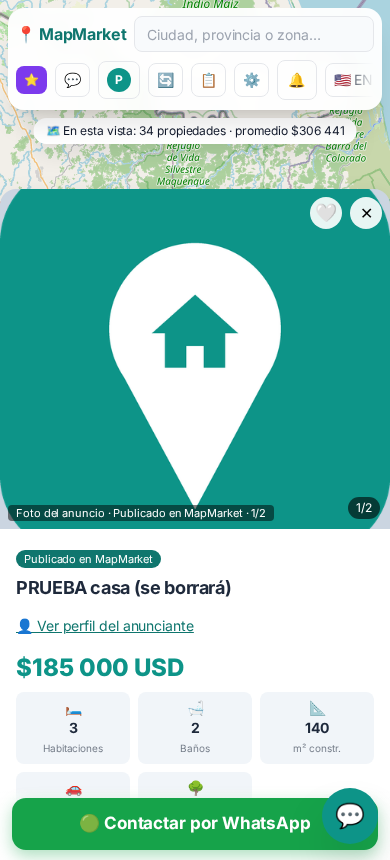
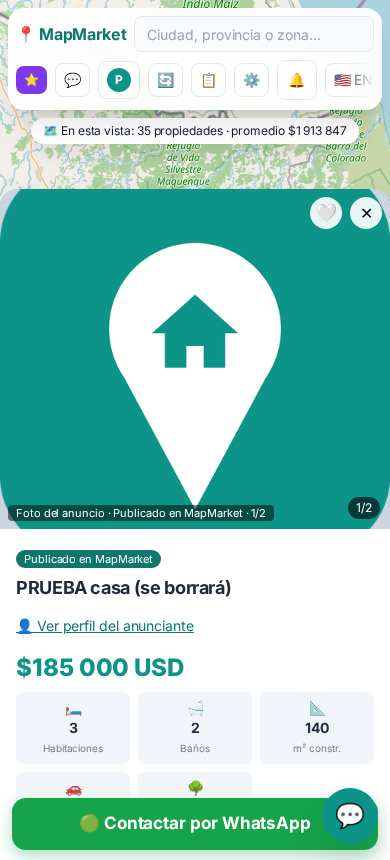
Vista: precio mediano (robusto a valores atípicos); validación de precio absurdo al publicar

Changed region(s): [[0.1846, 0.1209, 0.8308, 0.1814], [0.8923, 0.1209, 0.9231, 0.1814], [0.1231, 0.1209, 0.1538, 0.1814]]

diff --git a/js/mejoras.js b/js/mejoras.js
@@ -67,7 +67,7 @@
       const prev = save.onclick;
       save.onclick = async e => {
         const v = id => ($(id) ? $(id).value.trim() : ''), tipo = v('nY'), lote = /Lote|Finca/i.test(tipo), err = [];
-        if (!v('nT')) err.push(T('Título')); if (!(+v('nP') > 0)) err.push(T('Precio'));
+        if (!v('nT')) err.push(T('Título')); if (!(+v('nP') > 0)) err.push(T('Precio')); else if ((v('nC') === 'CRC' ? +v('nP') / 500 : +v('nP')) > 20e6) err.push(T('Precio (parece incorrecto: revisa la moneda y los ceros)'));
         if (!lote && !(+v('nB') >= 0 && v('nB') !== '')) err.push(T('Habitaciones')); if (!lote && v('nBa') === '') err.push(T('Baños'));
         if (!(+v('nA') > 0)) err.push(T('Área m²')); if (!v('nL')) err.push(T('Zona / cantón')); if (v('nD').length < 40) err.push(T('Descripción (mín. 40 caracteres)'));
         if (!(UI.draft && UI.draft.lat)) err.push(T('Ubicación en el mapa'));
@@ -97,8 +97,8 @@
     if (typeof App === 'undefined' || typeof MapController === 'undefined' || !MapController.map) return;
     let el = $('mmStats'); if (!el) { el = document.createElement('div'); el.id = 'mmStats'; el.setAttribute('aria-live', 'polite'); document.body.appendChild(el) }
     const b = MapController.map.getBounds(), L = (App.visible || []).filter(p => p.lat && b.contains([p.lat, p.lon])), pr = L.filter(p => p.price > 0).map(usd);
-    const avg = pr.length ? pr.reduce((a, x) => a + x, 0) / pr.length : 0, zona = typeof Filters !== 'undefined' && Filters.state && Filters.state.polygon;
-    el.textContent = `${zona ? '✏ ' + T('En la zona') : '🗺 ' + T('En esta vista')}: ${L.length.toLocaleString(LOC())} ${L.length === 1 ? T('propiedad') : T('propiedades')}${avg ? ' · ' + T('promedio') + ' $' + Math.round(avg).toLocaleString(LOC()) : ''}`;
+    pr.sort((a, b) => a - b); const avg = pr.length ? (pr.length % 2 ? pr[(pr.length - 1) / 2] : (pr[pr.length / 2 - 1] + pr[pr.length / 2]) / 2) : 0, zona = typeof Filters !== 'undefined' && Filters.state && Filters.state.polygon;
+    el.textContent = `${zona ? '✏ ' + T('En la zona') : '🗺 ' + T('En esta vista')}: ${L.length.toLocaleString(LOC())} ${L.length === 1 ? T('propiedad') : T('propiedades')}${avg ? ' · ' + T('precio mediano') + ' $' + Math.round(avg).toLocaleString(LOC()) : ''}`;
   }
   function hookMapa() {
     if (typeof App === 'undefined' || typeof MapController === 'undefined' || !MapController.map || App._mmS) return false; App._mmS = 1;

diff --git a/sw.js b/sw.js
@@ -2,7 +2,7 @@
    - Nunca intercepta Supabase, Tilopay, WhatsApp ni peticiones que no sean GET.
    - HTML y data/*.json: red primero (datos frescos), caché solo si no hay conexión.
    - Estáticos propios y CDNs (Tailwind, Leaflet, teselas OSM): caché con revalidación. */
-const V = 'mm-v23', SHELL = ['./', 'js/notif.js', 'js/tiers.js', 'js/inicio.js', 'js/plusvalia.js', 'js/editar.js', 'js/mm-extra.js', 'js/guard.js', 'js/mejoras.js', 'css/mm.css', 'css/tw.css', 'perfil.html', 'js/i18n.js', 'data/i18n/en.json', 'data/faq_en.json', 'index.html', 'login.html', 'planes.html', 'cuenta.html', 'confirmar.html', 'guias.html', 'mensajes.html', 'privacidad.html', 'terminos.html', 'offline.html', 'eliminar-cuenta.html', 'admin.html', '404.html', 'js/publicar.js', 'js/extras.js', 'js/admin-capa.js', 'js/cerca.js', 'js/permisos.js', 'js/admin-gestion.js', 'js/refrescar.js', 'js/planes-app.js', 'js/dibujo.js', 'js/datos.js', 'data/cr_division.json', 'js/features.js', 'js/social.js', 'js/config.js', 'js/auth.js', 'manifest.webmanifest', 'icons/icon-192.png'];
+const V = 'mm-v24', SHELL = ['./', 'js/notif.js', 'js/tiers.js', 'js/inicio.js', 'js/plusvalia.js', 'js/editar.js', 'js/mm-extra.js', 'js/guard.js', 'js/mejoras.js', 'css/mm.css', 'css/tw.css', 'perfil.html', 'js/i18n.js', 'data/i18n/en.json', 'data/faq_en.json', 'index.html', 'login.html', 'planes.html', 'cuenta.html', 'confirmar.html', 'guias.html', 'mensajes.html', 'privacidad.html', 'terminos.html', 'offline.html', 'eliminar-cuenta.html', 'admin.html', '404.html', 'js/publicar.js', 'js/extras.js', 'js/admin-capa.js', 'js/cerca.js', 'js/permisos.js', 'js/admin-gestion.js', 'js/refrescar.js', 'js/planes-app.js', 'js/dibujo.js', 'js/datos.js', 'data/cr_division.json', 'js/features.js', 'js/social.js', 'js/config.js', 'js/auth.js', 'manifest.webmanifest', 'icons/icon-192.png'];
 self.addEventListener('install', e => { e.waitUntil(caches.open(V).then(c => c.addAll(SHELL)).catch(() => {})); self.skipWaiting() });
 self.addEventListener('activate', e => { e.waitUntil(caches.keys().then(k => Promise.all(k.filter(x => x !== V).map(x => caches.delete(x)))).then(() => self.clients.claim())) });
 const NO = /supabase\.co|onvopay|tilopay|wa\.me|whatsapp|nominatim|overpass|api\./i;
